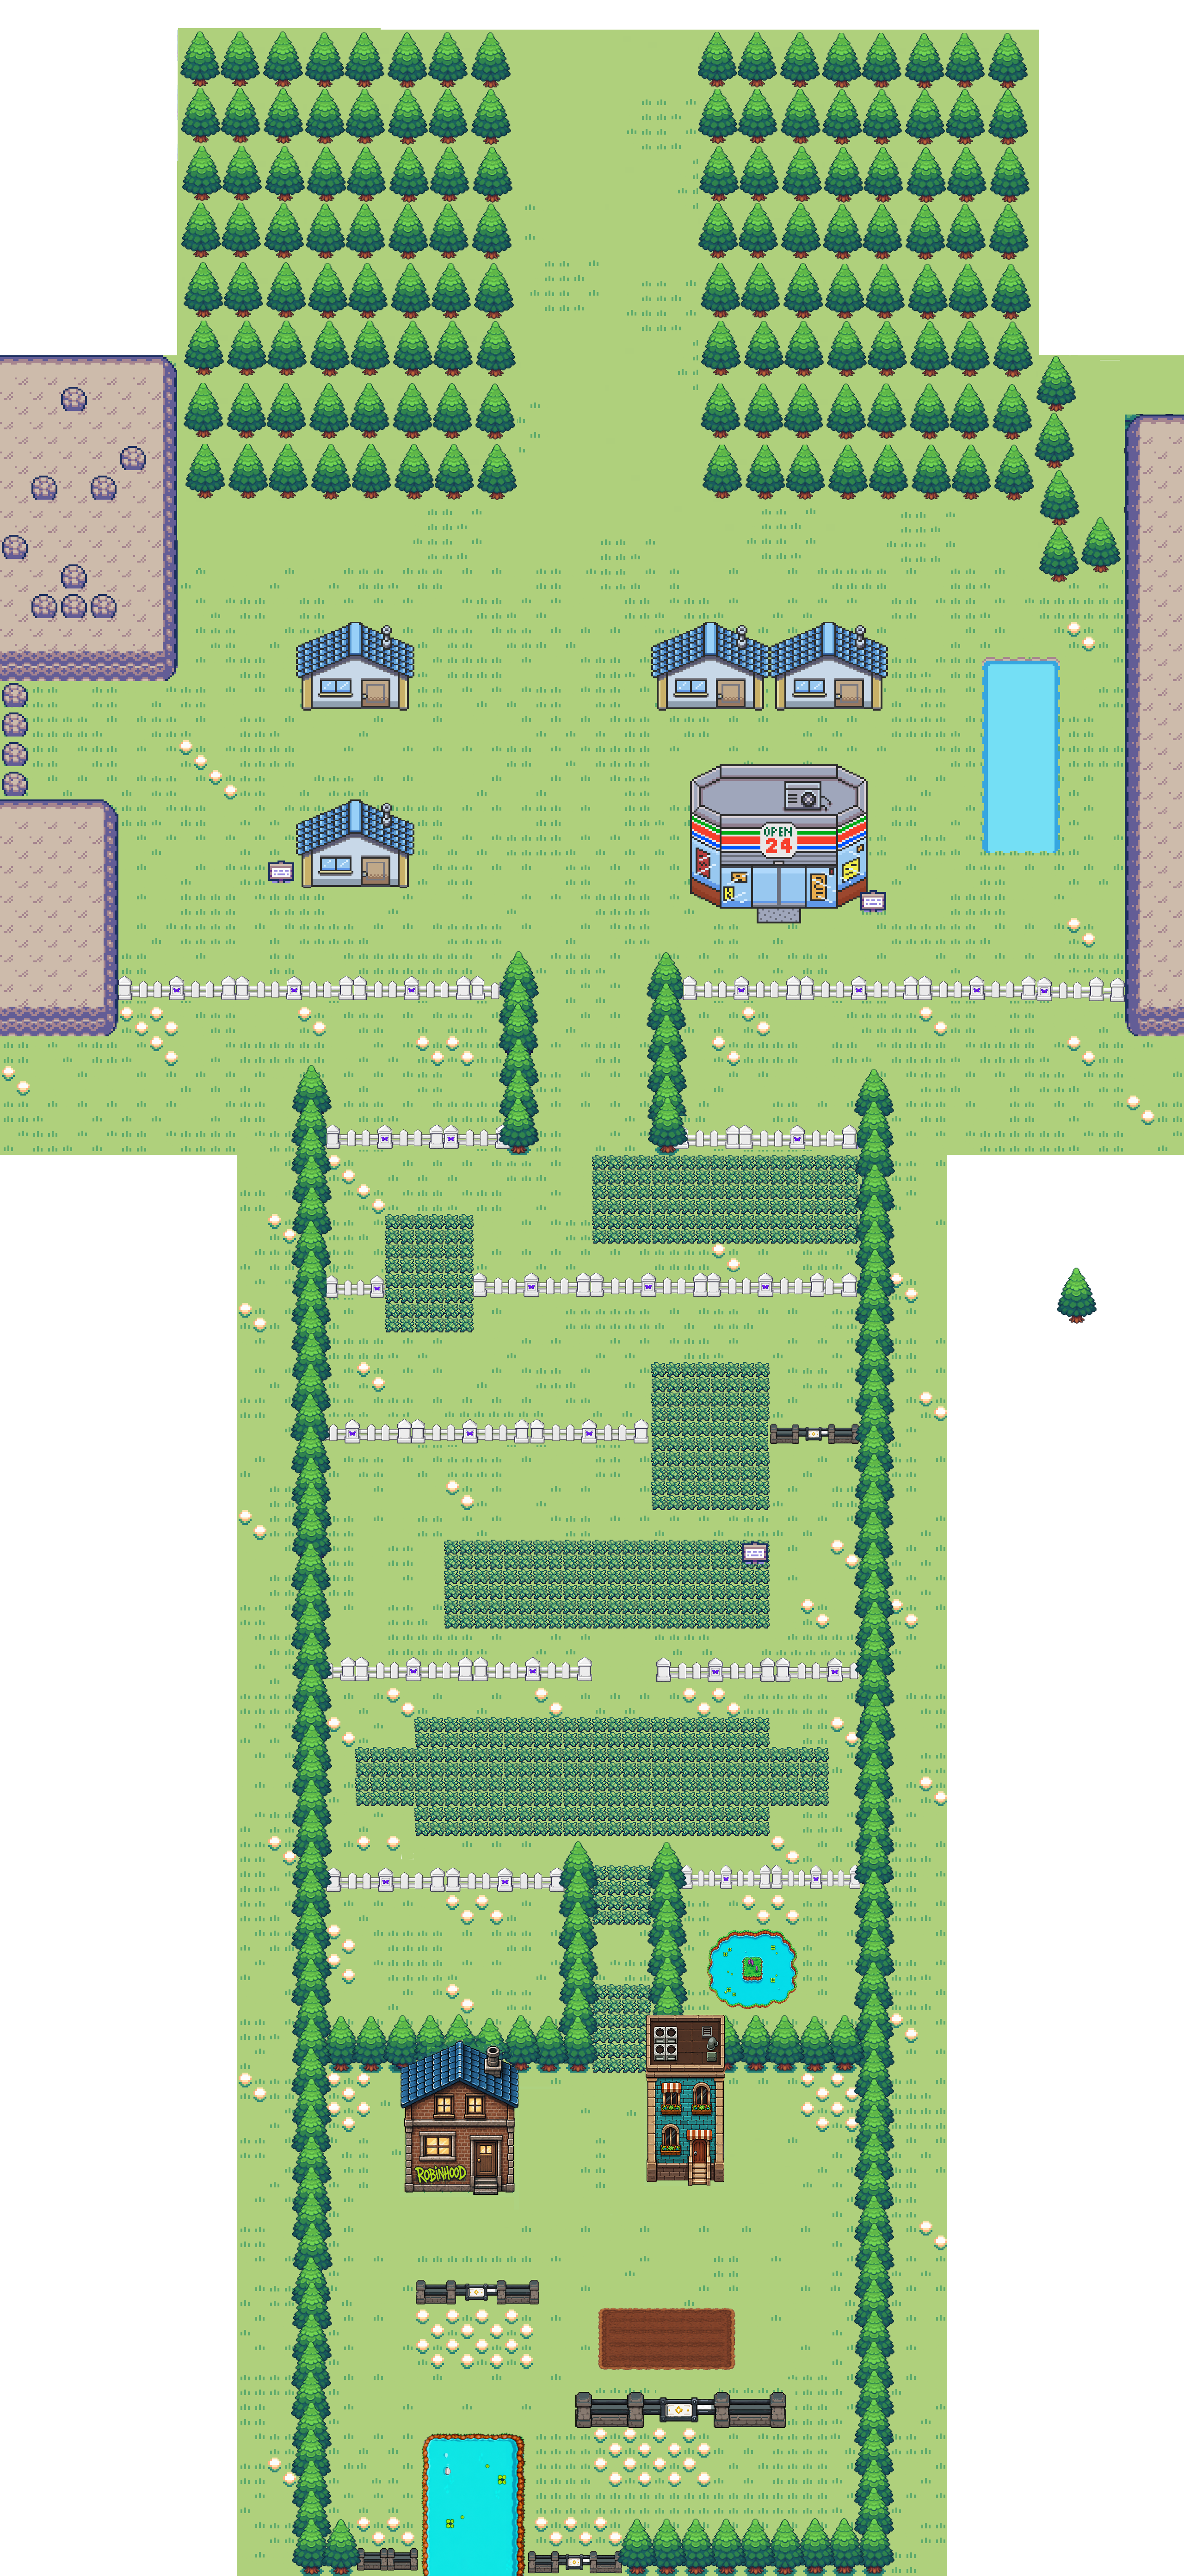
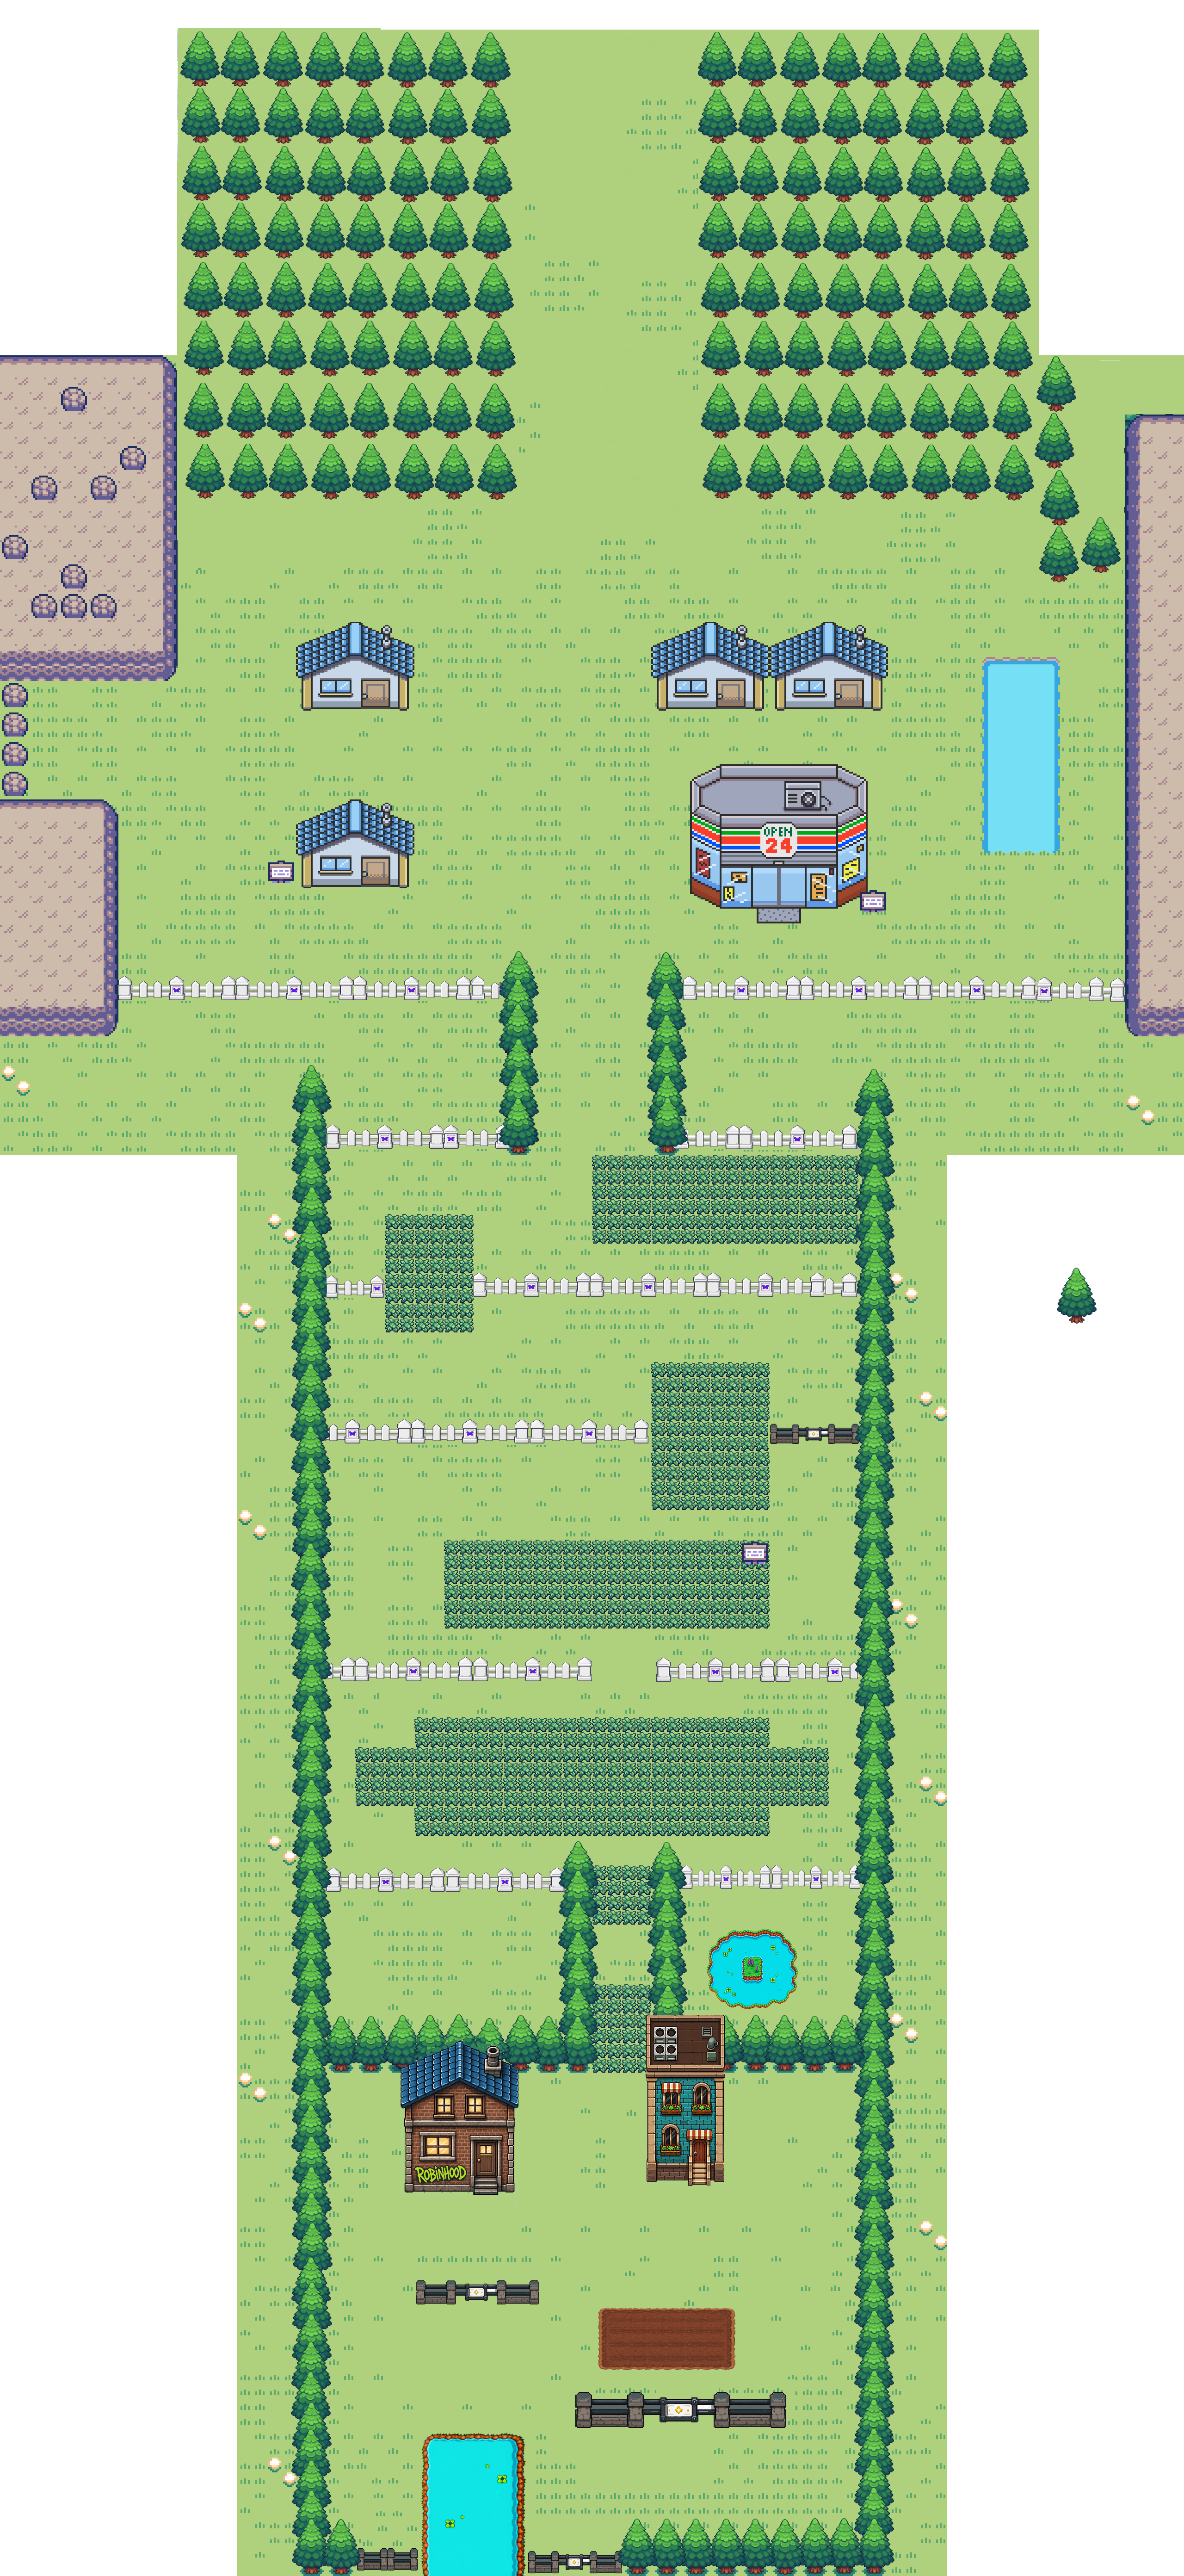
feat: add Aethryx and refresh the forest zone
Integrate Aethryx as an animated encounter, improve character and grass depth, add development map switching, and replace the forest background with high-resolution Spellborne-inspired art.

diff --git a/src/scenes/world-scene.js b/src/scenes/world-scene.js
@@ -1,7 +1,7 @@
 import Phaser from '../lib/phaser.js';
 import { AUDIO_ASSET_KEYS, WORLD_ASSET_KEYS } from '../assets/asset-keys.js';
 import { SCENE_KEYS } from './scene-keys.js';
-import { Player } from '../world/characters/player.js';
+import { Player } from '../world/characters/player.js?v=character-depth-v1';
 import { DIRECTION } from '../common/direction.js';
 import { ENABLE_ZONE_DEBUGGING, TILED_COLLISION_LAYER_ALPHA, TILE_SIZE } from '../config.js';
 import { DATA_MANAGER_STORE_KEYS, dataManager } from '../utils/data-manager.js';
@@ -11,8 +11,8 @@ import {
   getTargetPositionFromGameObjectPositionAndDirection,
 } from '../utils/grid-utils.js';
 import { CANNOT_READ_SIGN_TEXT, SAMPLE_TEXT } from '../utils/text-utils.js';
-import { NPC, NPC_MOVEMENT_PATTERN } from '../world/characters/npc.js?v=directional-idle-v2';
-import { WorldMenu } from '../world/world-menu.js';
+import { NPC, NPC_MOVEMENT_PATTERN } from '../world/characters/npc.js?v=character-depth-v1';
+import { WorldMenu } from '../world/world-menu.js?v=character-depth-v1';
 import { QuestTracker } from '../world/quest-tracker.js';
 import { STORY_FLAGS } from '../world/story-flags.js';
 import { BaseScene } from './base-scene.js';
@@ -55,6 +55,13 @@ const RIGHT_HOUSE_AC_FAN_POSITIONS = Object.freeze([
 ]);
 const DEV_COLLISION_GID = 189;
 const DEV_NO_POKEMONS_STORAGE_KEY = 'tameriaDevNoPokemons';
+const DEV_MAP_OPTIONS = Object.freeze([
+  { area: 'main_1', label: 'Tameria', isInterior: false, position: { x: 896, y: 4736 } },
+  { area: 'forest_1', label: 'Bosque / Rocas', isInterior: false, position: { x: 576, y: 640 } },
+  { area: 'building_1', label: 'Centro de curación', isInterior: true, position: { x: 320, y: 448 } },
+  { area: 'building_2', label: 'Casa vecina', isInterior: true, position: { x: 320, y: 448 } },
+  { area: 'building_3', label: 'Tienda', isInterior: true, position: { x: 320, y: 448 } },
+]);
 
 export class WorldScene extends BaseScene {
   /** @type {Player} */
@@ -264,15 +271,24 @@ export class WorldScene extends BaseScene {
     this.#createEncounterAreas(map);
 
     if (!this.#sceneData.isInterior) {
-      this.cameras.main.setBounds(0, 0, 2560, 5184);
+      this.cameras.main.setBounds(0, 0, map.widthInPixels, map.heightInPixels);
+      const minimumMapCoverZoom = Math.max(
+        this.scale.width / map.widthInPixels,
+        this.scale.height / map.heightInPixels
+      );
+      this.cameras.main.setZoom(Math.max(0.8, minimumMapCoverZoom));
+    } else {
+      this.cameras.main.setZoom(0.8);
     }
-    this.cameras.main.setZoom(0.8);
     const forestRocksCleared =
       this.#sceneData.area === 'forest_1' && dataManager.getFlags().has(STORY_FLAGS.ROCKS_CLEARED);
     const backgroundKey = forestRocksCleared
       ? WORLD_ASSET_KEYS.FOREST_1_BACKGROUND_CLEARED
       : `${this.#sceneData.area.toUpperCase()}_BACKGROUND`;
-    this.#backgroundImage = this.add.image(0, 0, backgroundKey, 0).setOrigin(0);
+    this.#backgroundImage = this.add
+      .image(0, 0, backgroundKey, 0)
+      .setOrigin(0)
+      .setDisplaySize(map.widthInPixels, map.heightInPixels);
     if (forestRocksCleared) {
       for (let x = 7; x <= 11; x += 1) {
         this.#collisionLayer.removeTileAt(x, 0);
@@ -659,7 +675,7 @@ export class WorldScene extends BaseScene {
           return;
         }
         if (child.x === this.#player.sprite.x && child.y === this.#player.sprite.y) {
-          child.visible = true;
+          child.setDepth(this.#player.sprite.depth + 1).setVisible(true);
           return;
         }
         child.active = false;
@@ -1421,7 +1437,8 @@ export class WorldScene extends BaseScene {
           .getFirstDead(true, encounterTile.pixelX, encounterTile.pixelY, WORLD_ASSET_KEYS.GRASS, 1, true)
           .setOrigin(0)
           .setVisible(true)
-          .setActive(true);
+          .setActive(true)
+          .setDepth(this.#player.sprite.depth + 1);
         // if player is moving up or down, don't show grass so they don't appear to be moving under it, will show after they reach the destination
         if (playerDirection === DIRECTION.DOWN || playerDirection === DIRECTION.UP) {
           object.visible = false;
@@ -1467,12 +1484,6 @@ export class WorldScene extends BaseScene {
    * @returns {void}
    */
   #createDevCollisionEditor(collisionLayer, map) {
-    const normalizedArea = this.#sceneData.area?.toUpperCase();
-    const isMainMap = normalizedArea === 'MAIN_1' || normalizedArea === WORLD_ASSET_KEYS.MAIN_1_LEVEL;
-    if (!isMainMap) {
-      return;
-    }
-
     const editorGrid = Array.from({ length: map.height }, (_row, y) =>
       Array.from({ length: map.width }, (_col, x) => {
         const tile = collisionLayer.getTileAt(x, y);
@@ -1660,7 +1671,7 @@ export class WorldScene extends BaseScene {
           }
         : null;
       const patch = {
-        map: 'main_1.json',
+        map: `${this.#sceneData.area}.json`,
         layer: 'Collision',
         collisionGid: DEV_COLLISION_GID,
         exportType: 'snapshot-v4-stable-grid',
@@ -1785,9 +1796,79 @@ export class WorldScene extends BaseScene {
       updateNoPokemonsButton();
       this.game.canvas.focus();
     });
+
+    const changeMapButton = document.createElement('button');
+    changeMapButton.textContent = 'CHANGE MAP';
+    changeMapButton.style.position = 'fixed';
+    changeMapButton.style.right = '12px';
+    changeMapButton.style.top = '96px';
+    changeMapButton.style.zIndex = '999999';
+    changeMapButton.style.padding = '8px 10px';
+    changeMapButton.style.font = '700 12px monospace';
+    changeMapButton.style.color = '#ffffff';
+    changeMapButton.style.background = '#111827';
+    changeMapButton.style.border = '2px solid #f59e0b';
+    changeMapButton.style.borderRadius = '6px';
+    changeMapButton.style.cursor = 'pointer';
+    changeMapButton.title = 'Teleportarse a otro mapa';
+    document.body.appendChild(changeMapButton);
+
+    const mapPanel = document.createElement('div');
+    mapPanel.style.position = 'fixed';
+    mapPanel.style.right = '12px';
+    mapPanel.style.top = '138px';
+    mapPanel.style.zIndex = '999999';
+    mapPanel.style.display = 'none';
+    mapPanel.style.gap = '6px';
+    mapPanel.style.padding = '8px';
+    mapPanel.style.background = '#111827';
+    mapPanel.style.border = '2px solid #f59e0b';
+    mapPanel.style.borderRadius = '6px';
+
+    const mapSelect = document.createElement('select');
+    mapSelect.style.padding = '6px';
+    mapSelect.style.font = '700 12px monospace';
+    DEV_MAP_OPTIONS.forEach((option) => {
+      const element = document.createElement('option');
+      element.value = option.area;
+      element.textContent = option.label;
+      element.selected = option.area === this.#sceneData.area;
+      mapSelect.appendChild(element);
+    });
+
+    const teleportButton = document.createElement('button');
+    teleportButton.textContent = 'TELEPORT';
+    teleportButton.style.padding = '6px 8px';
+    teleportButton.style.font = '700 12px monospace';
+    teleportButton.style.color = '#ffffff';
+    teleportButton.style.background = '#166534';
+    teleportButton.style.border = '1px solid #86efac';
+    teleportButton.style.borderRadius = '4px';
+    teleportButton.style.cursor = 'pointer';
+    mapPanel.append(mapSelect, teleportButton);
+    document.body.appendChild(mapPanel);
+
+    changeMapButton.addEventListener('click', () => {
+      mapPanel.style.display = mapPanel.style.display === 'none' ? 'flex' : 'none';
+    });
+    teleportButton.addEventListener('click', () => {
+      const destination = DEV_MAP_OPTIONS.find((option) => option.area === mapSelect.value);
+      if (!destination) {
+        return;
+      }
+      this._controls.lockInput = true;
+      dataManager.store.set(DATA_MANAGER_STORE_KEYS.PLAYER_POSITION, { ...destination.position });
+      dataManager.store.set(DATA_MANAGER_STORE_KEYS.PLAYER_DIRECTION, DIRECTION.UP);
+      this.scene.start(SCENE_KEYS.WORLD_SCENE, {
+        area: destination.area,
+        isInterior: destination.isInterior,
+      });
+    });
     this.events.once(Phaser.Scenes.Events.SHUTDOWN, () => {
       devButton.remove();
       noPokemonsButton.remove();
+      changeMapButton.remove();
+      mapPanel.remove();
     });
 
     const handleDevKey = (event) => {

diff --git a/src/scenes/preload-scene.js b/src/scenes/preload-scene.js
@@ -78,7 +78,7 @@ export class PreloadScene extends BaseScene {
     );
     this.load.image(
       BATTLE_ASSET_KEYS.TRAINER_YOUTH_GIRL,
-      `${monsterTamerAssetPath}/battle/trainer_youth_girl_lime_techwear.png?v=chain-monsters-v4`
+      `${monsterTamerAssetPath}/battle/trainer_youth_girl_lime_techwear.png?v=chain-monsters-v5`
     );
 
     // health bar assets
@@ -118,8 +118,15 @@ export class PreloadScene extends BaseScene {
 
     // monster assets
     const biloreAssetVersion = 'bilore-battle-idle-v1';
-    const rhovynAssetVersion = 'chain-monsters-v4';
-    this.load.image(MONSTER_ASSET_KEYS.CARNODUSK, `${monsterTamerAssetPath}/monsters/carnodusk.png`);
+    const rhovynAssetVersion = 'chain-monsters-v5';
+    this.load.spritesheet(
+      MONSTER_ASSET_KEYS.AETHRYX,
+      `${monsterTamerAssetPath}/monsters/aethryx-battle-idle.png?v=chain-monsters-v5`,
+      {
+        frameWidth: 256,
+        frameHeight: 256,
+      }
+    );
     this.load.spritesheet(
       MONSTER_ASSET_KEYS.BILORE,
       `${monsterTamerAssetPath}/monsters/bilore-battle-idle.png?v=${biloreAssetVersion}`,
@@ -138,7 +145,7 @@ export class PreloadScene extends BaseScene {
     );
     this.load.spritesheet(
       MONSTER_ASSET_KEYS.TORUSHELL,
-      `${monsterTamerAssetPath}/monsters/torushell-battle-idle.png?v=chain-monsters-v4`,
+      `${monsterTamerAssetPath}/monsters/torushell-battle-idle.png?v=chain-monsters-v5`,
       {
         frameWidth: 256,
         frameHeight: 256,
@@ -146,7 +153,7 @@ export class PreloadScene extends BaseScene {
     );
     this.load.spritesheet(
       MONSTER_ASSET_KEYS.TRIVURN,
-      `${monsterTamerAssetPath}/monsters/trivurn-battle-idle.png?v=chain-monsters-v4`,
+      `${monsterTamerAssetPath}/monsters/trivurn-battle-idle.png?v=chain-monsters-v5`,
       {
         frameWidth: 256,
         frameHeight: 256,
@@ -154,7 +161,7 @@ export class PreloadScene extends BaseScene {
     );
     this.load.spritesheet(
       MONSTER_ASSET_KEYS.TRILUMA,
-      `${monsterTamerAssetPath}/monsters/triluma-battle-idle.png?v=chain-monsters-v4`,
+      `${monsterTamerAssetPath}/monsters/triluma-battle-idle.png?v=chain-monsters-v5`,
       {
         frameWidth: 256,
         frameHeight: 256,
@@ -174,7 +181,7 @@ export class PreloadScene extends BaseScene {
     this.load.image(UI_ASSET_KEYS.BLUE_BUTTON_SELECTED, `${kenneysAssetPath}/ui-pack/blue_button00.png`);
 
     // load json data
-    const dataVersion = 'chain-monsters-v4';
+    const dataVersion = 'chain-monsters-v5';
     this.load.json(DATA_ASSET_KEYS.ATTACKS, `assets/data/attacks.json?v=${dataVersion}`);
     this.load.json(DATA_ASSET_KEYS.ANIMATIONS, `assets/data/animations.json?v=${dataVersion}`);
     this.load.json(DATA_ASSET_KEYS.ITEMS, `assets/data/items.json?v=${dataVersion}`);
@@ -202,7 +209,7 @@ export class PreloadScene extends BaseScene {
     });
 
     // load world assets
-    const mainMapVersion = 'chain-monsters-v4';
+    const mainMapVersion = 'chain-monsters-v5';
     this.load.spritesheet(WORLD_ASSET_KEYS.GRASS, `${monsterTamerAssetPath}/map/bushes.png`, {
       frameWidth: 64,
       frameHeight: 64,
@@ -254,10 +261,13 @@ export class PreloadScene extends BaseScene {
     );
     this.load.tilemapTiledJSON(BUILDING_ASSET_KEYS.BUILDING_2_LEVEL, `assets/data/building_2.json`);
 
-    this.load.image(WORLD_ASSET_KEYS.FOREST_1_BACKGROUND, `${monsterTamerAssetPath}/map/forest_1_level_background.png`);
+    this.load.image(
+      WORLD_ASSET_KEYS.FOREST_1_BACKGROUND,
+      `${monsterTamerAssetPath}/map/forest_1_level_background.png?v=forest-spellborne-maxres-v8`
+    );
     this.load.image(
       WORLD_ASSET_KEYS.FOREST_1_BACKGROUND_CLEARED,
-      `${monsterTamerAssetPath}/map/forest_1_level_background_cleared.png?v=${dataVersion}`
+      `${monsterTamerAssetPath}/map/forest_1_level_background_cleared.png?v=forest-spellborne-maxres-v8`
     );
     this.load.image(WORLD_ASSET_KEYS.FOREST_1_FOREGROUND, `${monsterTamerAssetPath}/map/forest_1_level_foreground.png`);
     this.load.tilemapTiledJSON(WORLD_ASSET_KEYS.FOREST_1_LEVEL, `assets/data/forest_1.json`);

diff --git a/src/main.js b/src/main.js
@@ -1,13 +1,13 @@
 import Phaser from './lib/phaser.js';
 import { SCENE_KEYS } from './scenes/scene-keys.js';
-import { PreloadScene } from './scenes/preload-scene.js?v=chain-monsters-v4';
-import { BattleScene } from './scenes/battle-scene.js?v=chain-monsters-v4';
-import { WorldScene } from './scenes/world-scene.js?v=chain-monsters-v4';
+import { PreloadScene } from './scenes/preload-scene.js?v=forest-spellborne-maxres-v8';
+import { BattleScene } from './scenes/battle-scene.js?v=chain-monsters-v5';
+import { WorldScene } from './scenes/world-scene.js?v=forest-spellborne-maxres-v8';
 import { TitleScene } from './scenes/title-scene.js';
 import { OptionsScene } from './scenes/options-scene.js';
-import { TestScene } from './scenes/test-scene.js?v=chain-monsters-v4';
+import { TestScene } from './scenes/test-scene.js?v=chain-monsters-v5';
 import { MonsterPartyScene } from './scenes/monster-party-scene.js';
-import { MonsterDetailsScene } from './scenes/monster-details-scene.js?v=chain-monsters-v4';
+import { MonsterDetailsScene } from './scenes/monster-details-scene.js?v=chain-monsters-v5';
 import { InventoryScene } from './scenes/inventory-scene.js';
 import { CutsceneScene } from './scenes/cutscene-scene.js';
 import { DialogScene } from './scenes/dialog-scene.js';
@@ -17,7 +17,7 @@ const getGameWidthForViewport = () => Math.max(1024, Math.round(BASE_GAME_HEIGHT
 
 const game = new Phaser.Game({
   type: Phaser.CANVAS,
-  pixelArt: false,
+  pixelArt: true,
   scale: {
     parent: 'game-container',
     width: getGameWidthForViewport(),

diff --git a/src/world/characters/character.js b/src/world/characters/character.js
@@ -82,7 +82,8 @@ export class Character {
     this._otherCharactersToCheckForCollisionsWith = config.otherCharactersToCheckForCollisionsWith || [];
     this._phaserGameObject = this._scene.add
       .sprite(config.position.x, config.position.y, config.assetKey, this._getIdleFrame())
-      .setOrigin(this._origin.x, this._origin.y);
+      .setOrigin(this._origin.x, this._origin.y)
+      .setDepth(config.position.y);
     this._spriteGridMovementFinishedCallback = config.spriteGridMovementFinishedCallback;
     this._spriteChangedDirectionCallback = config.spriteChangedDirectionCallback;
     this._objectsToCheckForCollisionsWith = config.objectsToCheckForCollisionsWith || [];
@@ -233,6 +234,9 @@ export class Character {
         to: this._targetPosition.x,
       },
       targets: this._phaserGameObject,
+      onUpdate: () => {
+        this._phaserGameObject.setDepth(this._phaserGameObject.y);
+      },
       onComplete: () => {
         this._isMoving = false;
         this._isRunning = false;

diff --git a/index.html b/index.html
@@ -24,6 +24,6 @@
   </head>
   <body>
     <div class="container" id="game-container"></div>
-    <script src="src/main.js?v=chain-monsters-v4" type="module"></script>
+    <script src="src/main.js?v=forest-spellborne-maxres-v8" type="module"></script>
   </body>
 </html>

diff --git a/src/assets/asset-keys.js b/src/assets/asset-keys.js
@@ -11,7 +11,7 @@ export const BATTLE_BACKGROUND_ASSET_KEYS = Object.freeze({
 
 export const MONSTER_ASSET_KEYS = Object.freeze({
   RHOVYN: 'RHOVYN',
-  CARNODUSK: 'CARNODUSK',
+  AETHRYX: 'AETHRYX',
   BILORE: 'BILORE',
   TRILUMA: 'TRILUMA',
   TORUSHELL: 'TORUSHELL',

diff --git a/src/scenes/test-scene.js b/src/scenes/test-scene.js
@@ -43,7 +43,7 @@ export class TestScene extends Phaser.Scene {
     background.showForest();
 
     this.#playerMonster = this.add.image(256, 316, MONSTER_ASSET_KEYS.RHOVYN, 0).setFlipX(true);
-    this.#enemyMonster = this.add.image(768, 144, MONSTER_ASSET_KEYS.CARNODUSK, 0).setFlipX(false);
+    this.#enemyMonster = this.add.image(768, 144, MONSTER_ASSET_KEYS.AETHRYX, 0).setFlipX(false);
     makeDraggable(this.#enemyMonster);
 
     this.#iceShardAttack = new IceShard(this, { x: 256, y: 344 });

diff --git a/src/world/characters/npc.js b/src/world/characters/npc.js
@@ -1,5 +1,5 @@
 import Phaser from '../../lib/phaser.js';
-import { Character } from './character.js';
+import { Character } from './character.js?v=character-depth-v1';
 import { CHARACTER_ASSET_KEYS } from '../../assets/asset-keys.js';
 import { DIRECTION } from '../../common/direction.js';
 import { exhaustiveGuard } from '../../utils/guard.js';

diff --git a/src/world/characters/player.js b/src/world/characters/player.js
@@ -1,7 +1,7 @@
 import { CHARACTER_ASSET_KEYS } from '../../assets/asset-keys.js';
 import { DIRECTION } from '../../common/direction.js';
 import { exhaustiveGuard } from '../../utils/guard.js';
-import { Character } from './character.js';
+import { Character } from './character.js?v=character-depth-v1';
 import { getTargetPositionFromGameObjectPositionAndDirection } from '../../utils/grid-utils.js';
 import { TILE_SIZE } from '../../config.js';
 

diff --git a/src/world/world-menu.js b/src/world/world-menu.js
@@ -1,4 +1,4 @@
-import { Menu } from '../common/menu/menu.js';
+import { Menu } from '../common/menu/menu.js?v=character-depth-v1';
 
 /**
  * @typedef {keyof typeof MENU_OPTIONS} MenuOptions

diff --git a/src/common/menu/menu.js b/src/common/menu/menu.js
@@ -56,6 +56,7 @@ export class Menu {
 
     this.#graphics = this.#createGraphics();
     this.#container = this.#scene.add.container(0, 0, [this.#graphics]);
+    this.#container.setDepth(10000);
 
     // update menu container with menu options
     for (let i = 0; i < this.#availableMenuOptions.length; i += 1) {

diff --git a/src/monsters/chain-types.js b/src/monsters/chain-types.js
@@ -2,6 +2,7 @@
 export const MONSTER_CHAIN_TYPE = Object.freeze({
   LEGACY: 'LEGACY',
   BNB: 'BNB',
+  ETHEREUM: 'ETHEREUM',
   ROBINHOOD: 'ROBINHOOD',
   SOLANA: 'SOLANA',
   TRON: 'TRON',